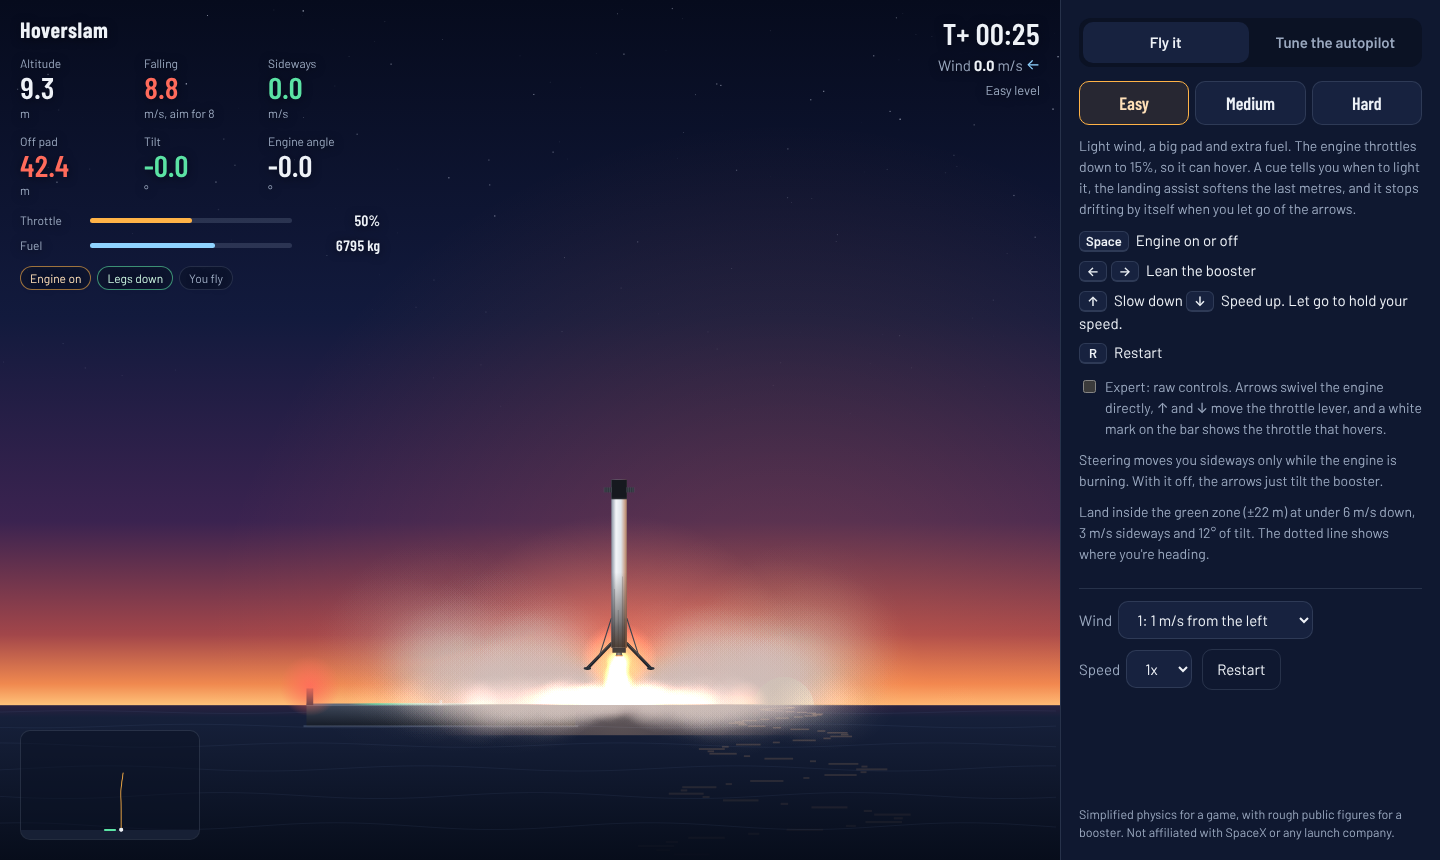
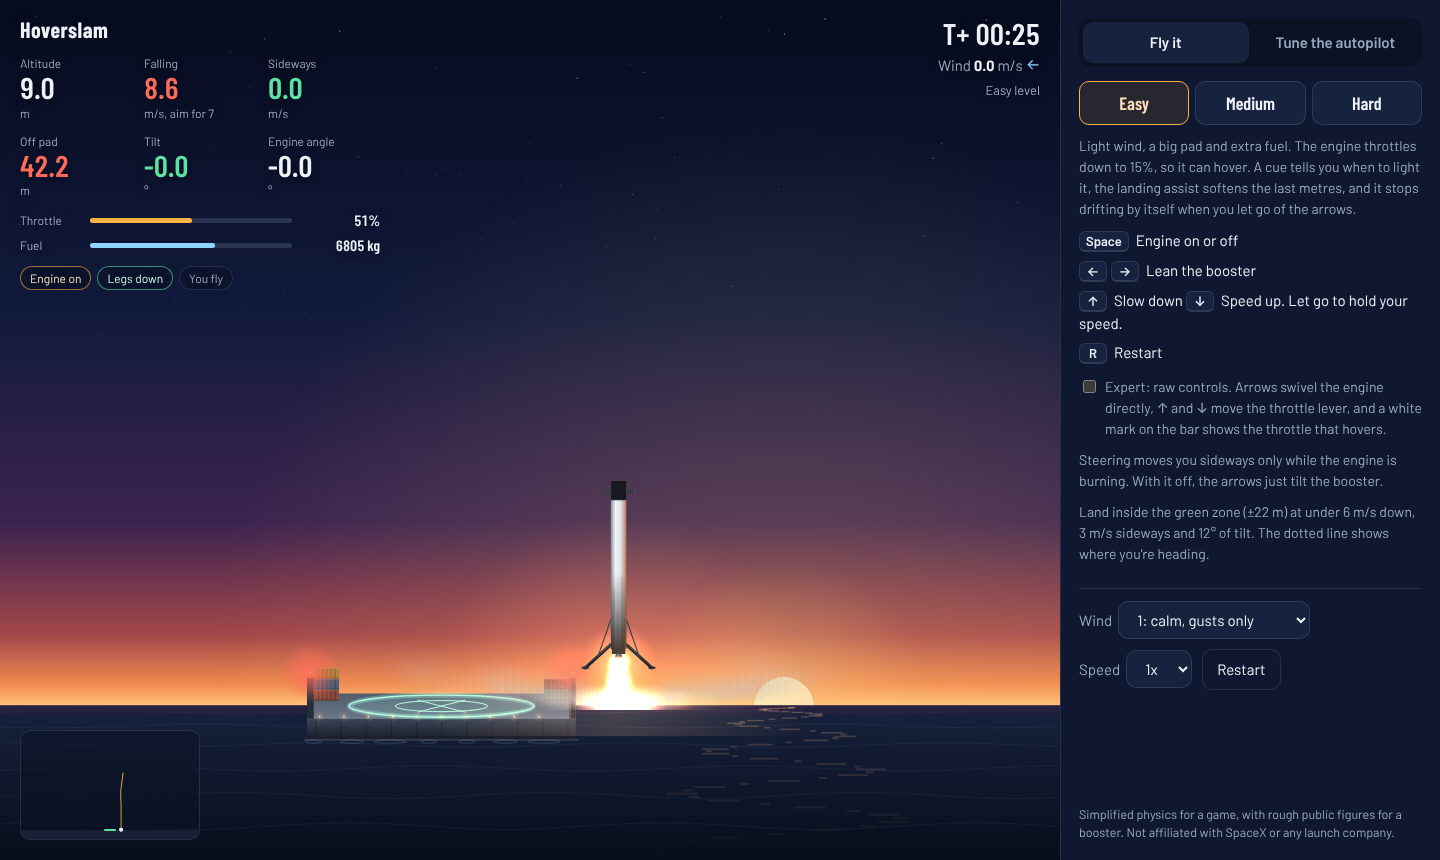
Refresh README screenshots and fix stale result card
- New screenshots for the redrawn barge, the storm level and the landing.
- Result card no longer covers the readouts.
- A result card from a flight you just left no longer pops up over the next one.
- Crash leaves a thin wisp of smoke instead of a black ball.

Claude-Session: https://claude.ai/code/session_01D7wc1nEQEEKwHFAY927jFk

Changed region(s): [[0.1875, 0.6953, 0.5938, 0.8767], [0.8125, 0.6953, 0.875, 0.7256], [0.0312, 0.1814, 0.0625, 0.2116]]

diff --git a/public/app.js b/public/app.js
@@ -91,6 +91,7 @@ function newFlight() {
   app.steer = { want: 0, vHold: 0 };
   app.ended = false;
   app.acc = 0;
+  clearTimeout(app.cardTimer); // a result card from the flight you just left must not appear over this one
   Object.assign(fx, freshFx());
   cam.snap = true;
   $('outcome').classList.add('hidden');
@@ -213,7 +214,7 @@ function onEnd() {
   } else if (o.reason !== 'Flew away' && o.reason !== 'Timed out') {
     explode(s);
   }
-  setTimeout(() => showOutcome(o), o.landed || fx.standing ? 1500 : 1300);
+  app.cardTimer = setTimeout(() => showOutcome(o), o.landed || fx.standing ? 1500 : 1300);
   if (app.mode === 'sim') renderReport();
   if (app.mode === 'game' && o.landed) {
     const sc = scoreFlight(o);
@@ -305,7 +306,7 @@ function explode(s) {
   for (let i = 0; i < 140; i++) {
     const a = Math.random() * Math.PI;
     const v = 8 + Math.random() * 45;
-    fx.fire.push({ x: s.x + (Math.random() - 0.5) * 6, y: y + Math.random() * 20, vx: Math.cos(a) * v * (Math.random() < 0.5 ? -1 : 1), vy: Math.sin(a) * v * 0.7 + 4, life: 0, max: 0.8 + Math.random() * 1.8, r: 3 + Math.random() * 6 });
+    fx.fire.push({ smoke: Math.random() < 0.3, x: s.x + (Math.random() - 0.5) * 6, y: y + Math.random() * 20, vx: Math.cos(a) * v * (Math.random() < 0.5 ? -1 : 1), vy: Math.sin(a) * v * 0.7 + 4, life: 0, max: 0.8 + Math.random() * 1.8, r: 3 + Math.random() * 6 });
   }
   for (let i = 0; i < 18; i++) {
     fx.debris.push({ x: s.x, y: y + Math.random() * 30, vx: (Math.random() - 0.5) * 50, vy: 10 + Math.random() * 35, a: Math.random() * 6, va: (Math.random() - 0.5) * 12, w: 1 + Math.random() * 3, h: 0.6 + Math.random() * 2, life: 0 });
@@ -389,7 +390,7 @@ function updateFx(dt) {
   fx.steam = fx.steam.filter((p) => p.life < p.max);
 
   for (const p of fx.fire) { p.x += p.vx * dt; p.y += p.vy * dt; p.vx *= 1 - dt * 1.5; p.vy = p.vy * (1 - dt * 1.5) + dt * 6; if (p.y < 0) { p.y = 0; p.vy = Math.abs(p.vy) * 0.3; } p.life += dt; p.r += dt * (p.life < p.max ? 9 : 1.5); }
-  fx.fire = fx.fire.filter((p) => p.life < p.max + 2.5).slice(-260);
+  fx.fire = fx.fire.filter((p) => p.life < p.max + (p.smoke ? 2.5 : 0)).slice(-260);
   for (const d of fx.debris) {
     d.x += d.vx * dt; d.y += d.vy * dt; d.vy -= G * dt; d.a += d.va * dt; d.life += dt;
     if (d.y < 0.5 && Math.abs(d.x) < 34) { d.y = 0.5; d.vy = -d.vy * 0.3; d.vx *= 0.6; d.va *= 0.5; }
@@ -1016,7 +1017,7 @@ function drawFire() {
       g.addColorStop(1, `rgba(${c}, 0)`);
     } else {
       ctx.globalCompositeOperation = 'source-over';
-      const a = 0.2 * (1 - (p.life - p.max) / 2.5);
+      const a = 0.13 * (1 - (p.life - p.max) / 2.5);
       g.addColorStop(0, `rgba(40, 34, 36, ${a})`);
       g.addColorStop(1, 'rgba(40, 34, 36, 0)');
     }
@@ -1028,8 +1029,10 @@ function drawFire() {
     ctx.save();
     ctx.translate(sx(d.x), sy(d.y));
     ctx.rotate(d.a);
+    ctx.globalAlpha = clamp(1 - (d.life - 2.5) / 2.5, 0, 1);
     ctx.fillStyle = d.life < 1.5 ? '#ffb070' : '#4a505b';
     ctx.fillRect((-d.w / 2) * cam.s, (-d.h / 2) * cam.s, d.w * cam.s, d.h * cam.s);
+    ctx.globalAlpha = 1;
     ctx.restore();
   }
 }

diff --git a/public/style.css b/public/style.css
@@ -74,10 +74,11 @@ html, body { margin: 0; height: 100%; background: var(--ink); color: var(--text)
   padding: 28px 34px; border-radius: 16px; background: rgba(11, 18, 36, 0.78); border: 1px solid var(--line);
   backdrop-filter: blur(10px); width: min(560px, calc(100% - 32px));
 }
-.outcome { top: 38%; animation: rise 0.35s ease-out; }
+.outcome { left: 58%; top: 45%; padding: 20px 30px; animation: rise 0.35s ease-out; } /* clear of the readouts, low enough to leave the sky free */
 @keyframes rise { from { opacity: 0; transform: translate(-50%, -46%); } to { opacity: 1; transform: translate(-50%, -50%); } }
 .hidden { display: none !important; }
 .o-title, .i-title { font: 700 52px/1 var(--display); }
+.outcome .o-title { font-size: 46px; }
 .o-title.good { color: var(--pad); }
 .o-title.bad { color: var(--warn); }
 .o-sub, .i-sub { color: var(--muted); margin: 10px auto 16px; max-width: 46ch; }
@@ -192,6 +193,7 @@ body { touch-action: manipulation; }
   .panel { border-left: none; border-top: 1px solid var(--line); padding: 16px; }
   .o-title, .i-title { font-size: 38px; }
   .outcome, .intro { padding: 20px 22px; top: 44%; }
+  .outcome { left: 50%; }
   .o-stats { gap: 6px 14px; }
 }
 @media (max-width: 480px) {

diff --git a/README.md b/README.md
@@ -30,6 +30,10 @@ On a phone you get touch buttons in two thumb clusters (lean on the left, thrott
 | Medium | Real crosswind, 14 m pad, no cue, 35% minimum throttle, landing assist only in the last few metres, drift hold on. Lands at up to 3.2 m/s down, 1.6 m/s sideways, 6.5° tilt |
 | Hard | Strong gusts, 11 m pad, the real 40% minimum throttle (it can never hover), no assist, no drift hold. You time one burn that ends at the deck. Lands at up to 3 m/s down, 1.5 m/s sideways, 6° tilt |
 
+Each level has its own look: Easy is a sunset, Medium is dusk with a moon, and Hard is a night storm with rain, lightning and a barge lit only by its own lights.
+
+![Hard: a night storm, with lightning and the barge lit by its own lights](docs/hard-storm.png)
+
 ![The final approach, with the plume hitting the deck](docs/game-final-approach.png)
 
 ### Tune the autopilot (the simulator)
